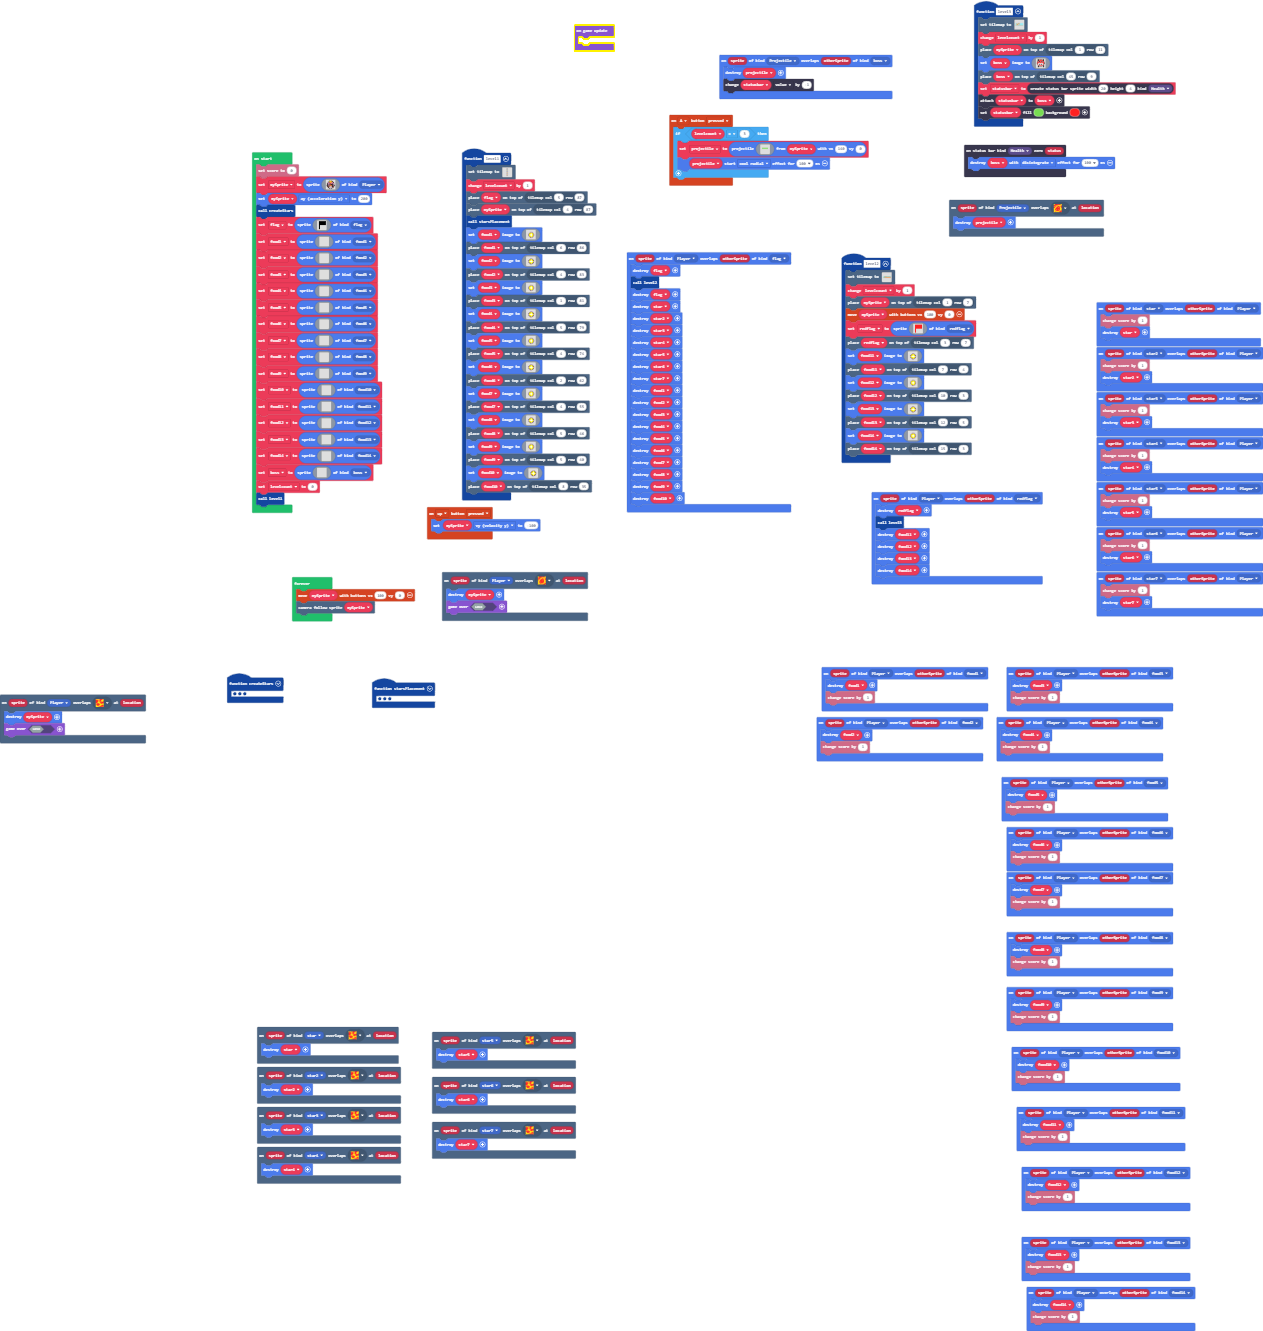
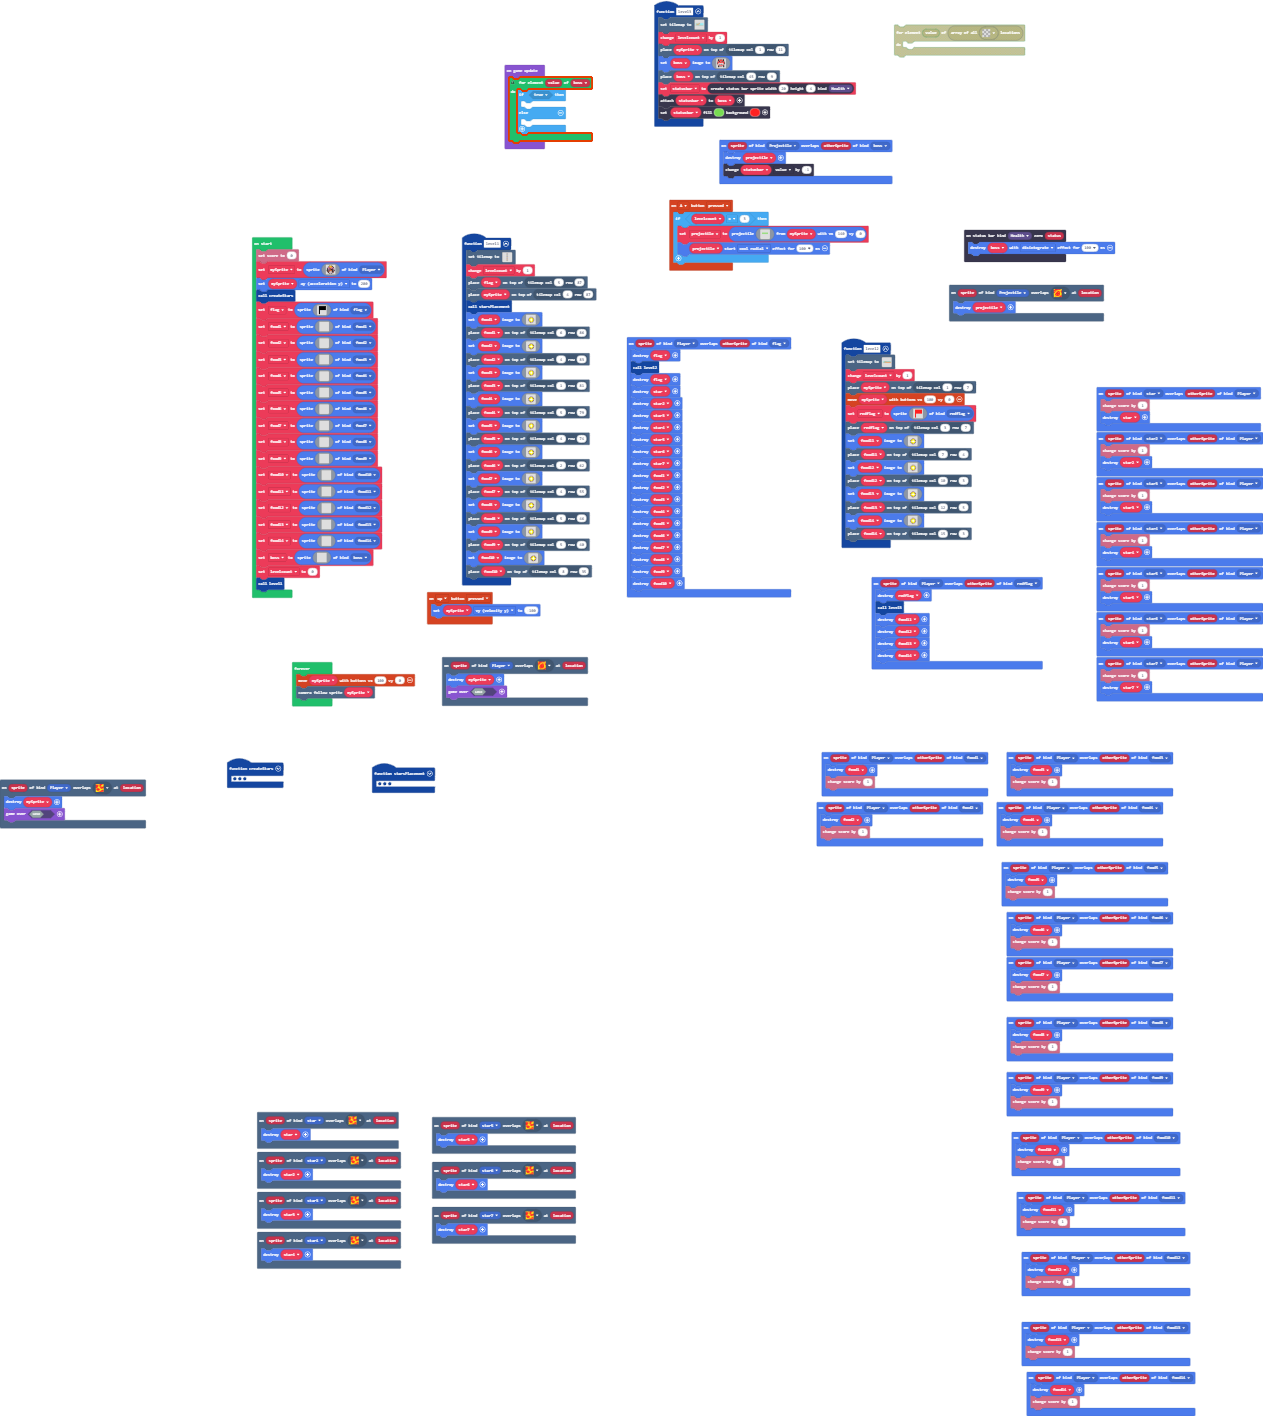
Update main.blocks, main.ts

Changed region(s): [[0.1544, 0.0, 1.0, 1.0], [0.1853, 0.7701, 0.4632, 0.8933], [0.0, 0.5237, 0.1235, 0.5853]]

diff --git a/main.ts b/main.ts
@@ -1165,7 +1165,13 @@ boss = sprites.create(img`
 levelcount = 0
 level1()
 game.onUpdate(function () {
-	
+    for (let value of boss) {
+        if (true) {
+        	
+        } else {
+        	
+        }
+    }
 })
 forever(function () {
     controller.moveSprite(mySprite, 100, 0)
